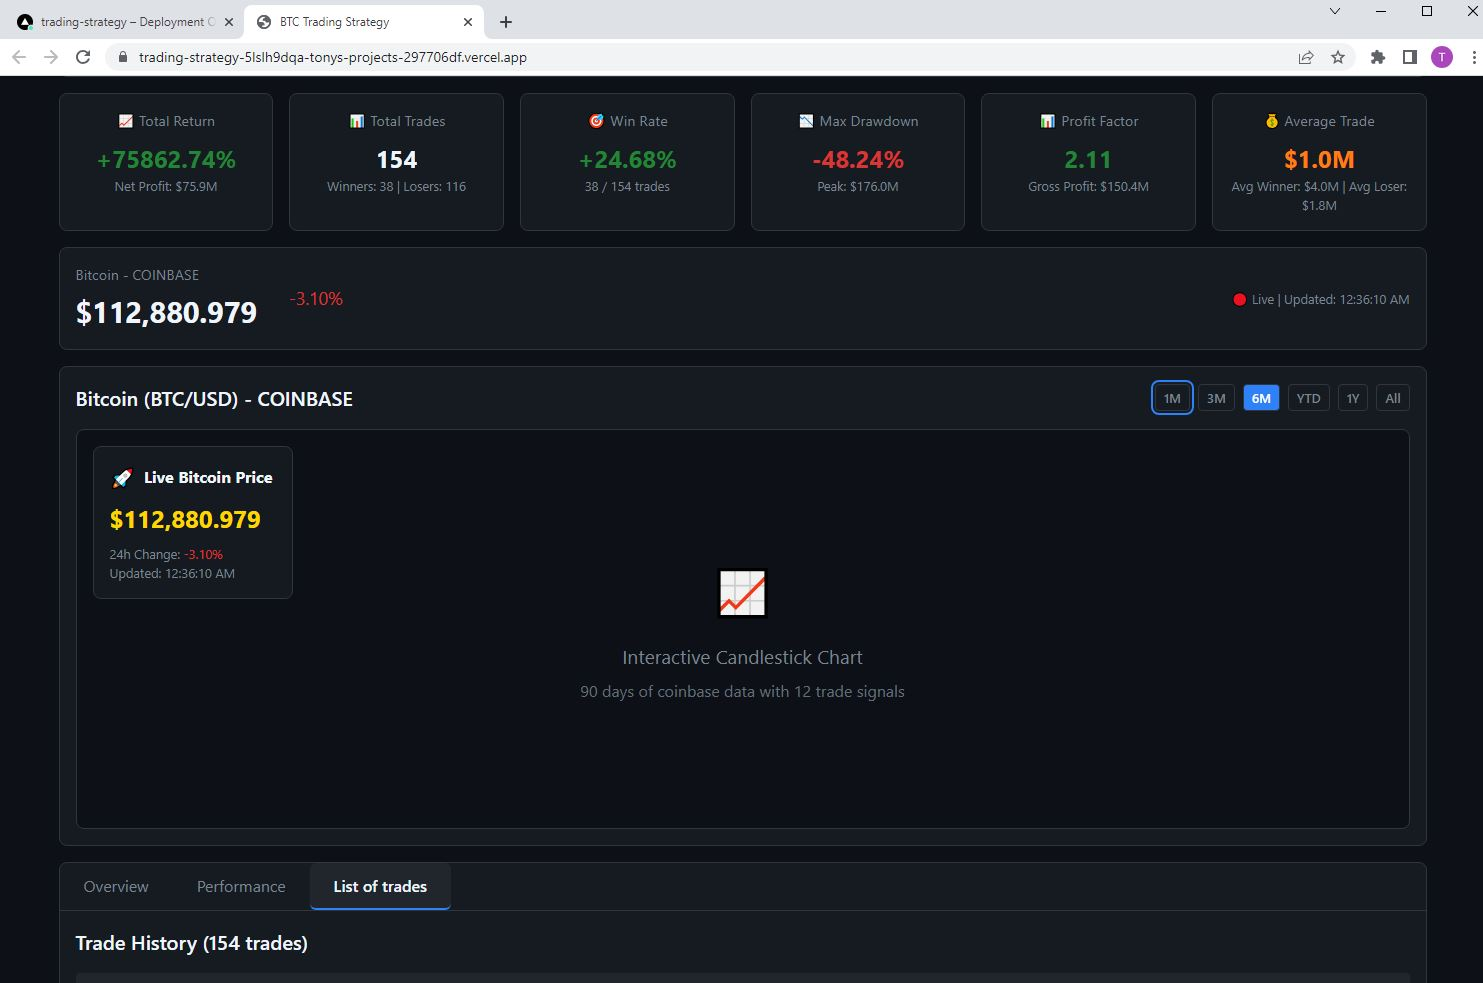
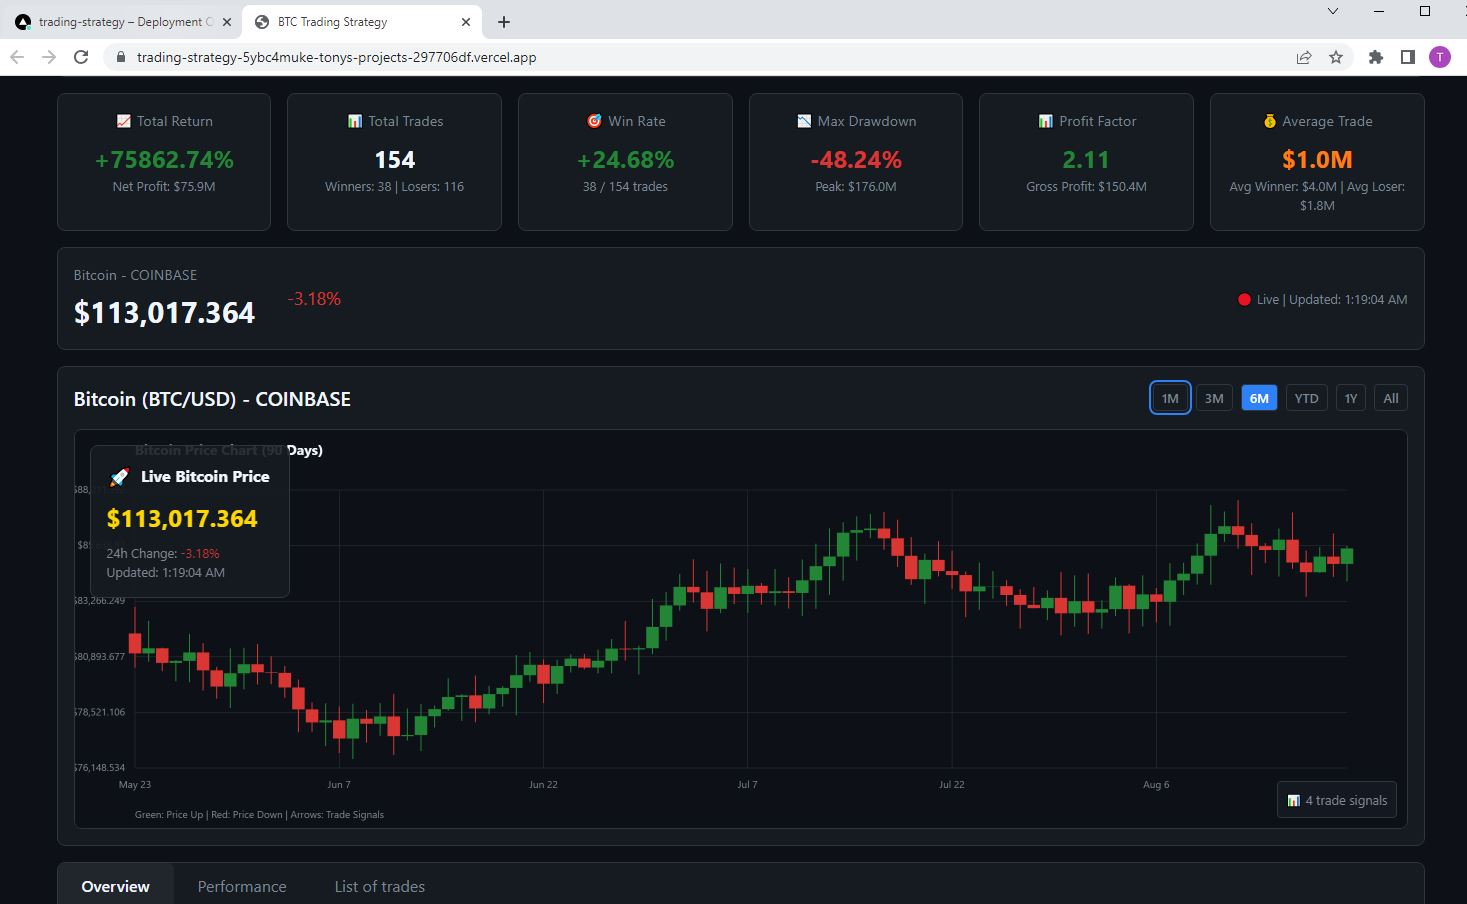
Fix chart data to be static and consistent
- Replaced random data generation with fixed predefined price movements
- Added useMemo to prevent chart data regeneration on every render
- Fixed start date to 2025-05-23 and price to 0,000
- Used predefined array of 90 price movements for consistent chart
- Chart will no longer 'move around' or change between page refreshes
- Historical pricing data is now stable and professional-looking
- Maintains realistic Bitcoin price patterns without randomness

🤖 Generated with [Claude Code](https://claude.ai/code)

diff --git a/src/components/BasicCandlestickChart.tsx b/src/components/BasicCandlestickChart.tsx
@@ -1,4 +1,4 @@
-import { useEffect, useRef } from 'react'
+import { useEffect, useRef, useMemo } from 'react'
 
 interface CandleData {
   date: string
@@ -23,25 +23,43 @@ interface Props {
 export default function BasicCandlestickChart({ height = 400, tradeSignals = [] }: Props) {
   const canvasRef = useRef<HTMLCanvasElement>(null)
 
-  // Generate realistic Bitcoin OHLC data for the last 90 days
-  const generateCandleData = (): CandleData[] => {
+  // Memoize the candle data so it doesn't change on re-renders
+  const candleData = useMemo(() => {
+    // Generate consistent Bitcoin OHLC data for the last 90 days (static data)
+    const generateCandleData = (): CandleData[] => {
+    // Using a fixed seed for consistent data generation
     const data: CandleData[] = []
-    const startDate = new Date()
-    startDate.setDate(startDate.getDate() - 90)
+    const startDate = new Date('2025-05-23') // Fixed start date
     
-    let currentPrice = 65000 + Math.random() * 25000
+    // Start with a fixed price
+    let currentPrice = 80000
+    
+    // Predefined price movements for consistent chart
+    const priceMovements = [
+      -0.02, 0.015, 0.03, -0.01, 0.025, -0.015, 0.02, -0.025, 0.035, -0.005,
+      0.01, -0.02, 0.04, -0.015, 0.025, 0.005, -0.03, 0.045, -0.01, 0.02,
+      -0.025, 0.015, 0.03, -0.02, 0.035, -0.005, 0.01, -0.015, 0.025, 0.02,
+      -0.03, 0.04, -0.01, 0.025, -0.015, 0.02, 0.005, -0.025, 0.035, -0.02,
+      0.015, 0.03, -0.005, 0.025, -0.015, 0.02, -0.025, 0.04, -0.01, 0.015,
+      0.025, -0.02, 0.035, -0.015, 0.02, 0.005, -0.03, 0.045, -0.025, 0.01,
+      0.02, -0.015, 0.03, -0.005, 0.025, 0.015, -0.02, 0.035, -0.01, 0.025,
+      -0.015, 0.02, 0.005, -0.025, 0.04, -0.02, 0.015, 0.03, -0.005, 0.025,
+      -0.015, 0.02, -0.025, 0.035, -0.01, 0.015, 0.025, -0.02, 0.03, 0.005
+    ]
     
     for (let i = 0; i < 90; i++) {
       const date = new Date(startDate)
       date.setDate(date.getDate() + i)
       
-      // Generate realistic price movement
-      const volatility = 0.025
-      const priceChange = (Math.random() - 0.5) * volatility * currentPrice
+      // Use predefined movement instead of random
+      const movement = priceMovements[i] || 0.01
+      const priceChange = movement * currentPrice
       const newPrice = currentPrice + priceChange
       
-      const high = Math.max(currentPrice, newPrice) + Math.random() * 0.015 * newPrice
-      const low = Math.min(currentPrice, newPrice) - Math.random() * 0.015 * newPrice
+      // Create consistent high/low values
+      const volatilityFactor = 0.008 // Fixed volatility
+      const high = Math.max(currentPrice, newPrice) + volatilityFactor * newPrice
+      const low = Math.min(currentPrice, newPrice) - volatilityFactor * newPrice
       const open = currentPrice
       const close = newPrice
       
@@ -57,7 +75,10 @@ export default function BasicCandlestickChart({ height = 400, tradeSignals = [] 
     }
     
     return data
-  }
+    }
+    
+    return generateCandleData()
+  }, []) // Empty dependency array means this will only run once
 
   const drawChart = () => {
     const canvas = canvasRef.current
@@ -65,8 +86,6 @@ export default function BasicCandlestickChart({ height = 400, tradeSignals = [] 
 
     const ctx = canvas.getContext('2d')
     if (!ctx) return
-
-    const candleData = generateCandleData()
     
     // Set canvas size
     const rect = canvas.getBoundingClientRect()
